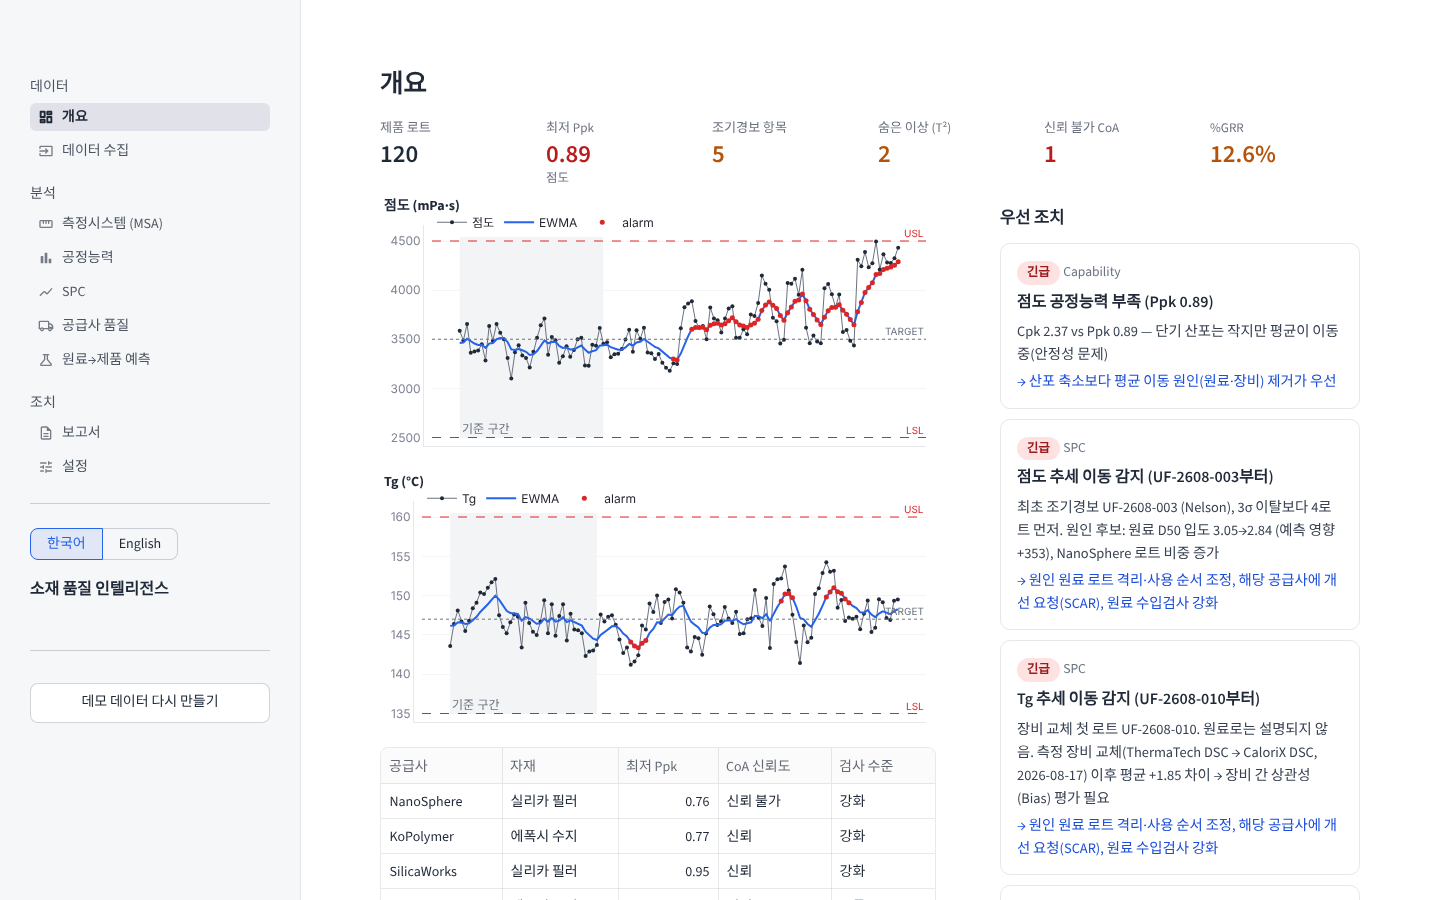
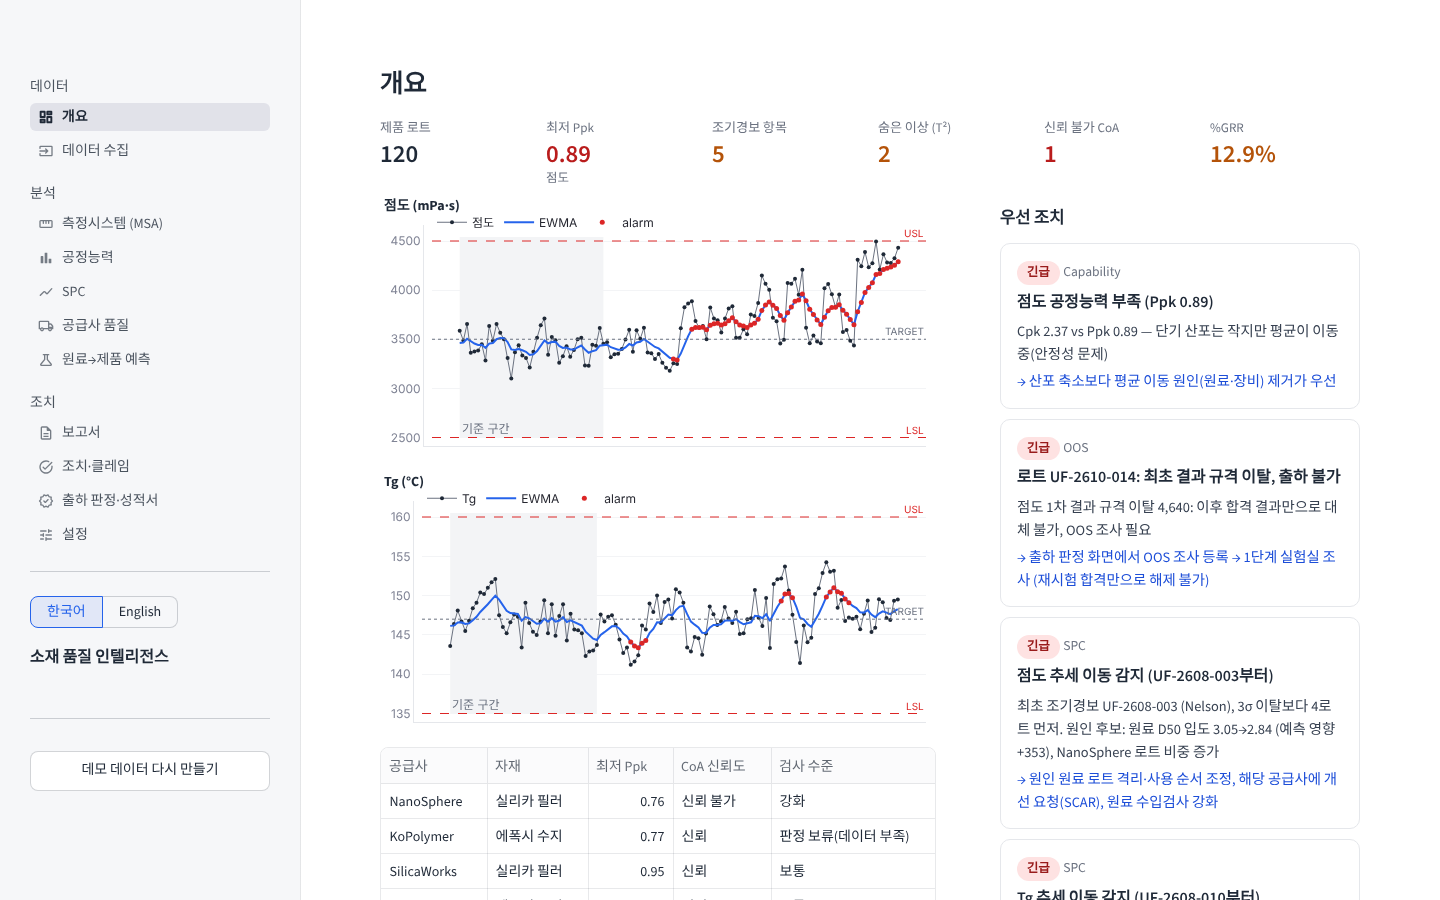
Show the blocked OOS lot on the overview and in the README tour (#2)
- overview priority list: lots whose first result failed (high, area OOS)
- README: one-line summary, comparison row, tour step 7 (UF-2610-014)
- refreshed overview screenshot (new navigation, OOS card)

Claude-Session: https://claude.ai/code/session_019sN5h2H5Xone2wwCJkGeBg

diff --git a/mqi/insight/rules.py b/mqi/insight/rules.py
@@ -224,6 +224,17 @@ def findings(b: engine.Bundle) -> list[Finding]:
                 f"다음 배치는 {best['resin_lot']} + {best['filler_lot']} + {best['hardener_lot']} 조합 권장",
                 f"Use {best['resin_lot']} + {best['filler_lot']} + {best['hardener_lot']} for the next batch"))
 
+    # ---- first results out of spec that a later result would otherwise hide
+    from .. import oos
+    for lot, fl in oos.flag_table(b.dbpath).items():
+        blocks = [x for x in fl if x[0] == "block"]
+        if blocks:
+            out.append(_f(
+                f"oos_{lot}", "OOS", "high",
+                f"로트 {lot}: 최초 결과 규격 이탈, 출하 불가", f"Lot {lot}: first result out of spec, release blocked",
+                blocks[0][1], blocks[0][2],
+                "출하 판정 화면에서 OOS 조사 등록 → 1단계 실험실 조사 (재시험 합격만으로 해제 불가)",
+                "Open the OOS investigation on the Release page → phase 1 lab check (a passing retest alone cannot release)"))
     out.sort(key=lambda f: (SEV[f.severity], f.area))
     # ---- open complaints and overdue actions
     from .. import qms

diff --git a/tests/test_oos.py b/tests/test_oos.py
@@ -95,3 +95,8 @@ def test_repeat_without_reason_is_held(plant):
                     "measured_at, source_file) VALUES (?,?,?,?,?,?,?,?,?)",
                     (lot, "product", "viscosity", 3500, "mPa·s", "inhouse", "Kim", "2099-01-01", "re-export.csv"))
     assert outgoing.release_check(engine.run(plant), lot)[0] == "hold"
+
+
+def test_overview_lists_the_blocked_lot(bundle):
+    from mqi.insight import rules
+    assert any(f.key.startswith("oos_") and f.severity == "high" for f in rules.findings(bundle))

diff --git a/README.md b/README.md
@@ -4,7 +4,7 @@
 ![python](https://img.shields.io/badge/python-3.12-3776AB)
 ![streamlit](https://img.shields.io/badge/app-Streamlit-FF4B4B)
 
-반도체 패키징 소재(언더필·에폭시 접착제) 공장의 품질 데이터를 **장비 제조사·펌웨어·단위·언어에 상관없이 자동으로 모으고**, MSA·공정능력·SPC·공급사 품질·원료→제품 예측을 한 번에 분석해 **8D·SCAR·출하 성적서까지 만들어 주는** Streamlit 앱입니다.
+반도체 패키징 소재(언더필·에폭시 접착제) 공장의 품질 데이터를 **장비 제조사·펌웨어·단위·언어에 상관없이 자동으로 모으고**, MSA·공정능력·SPC·공급사 품질·원료→제품 예측을 한 번에 분석해 **8D·SCAR·출하 성적서까지 만들어 주는** Streamlit 앱입니다. 재시험 합격으로 최초 부적합을 덮지 못하도록 **OOS 조사 이력**까지 관리합니다.
 
 **▶ [데모 앱 열기](https://materialqualityintelligence-dknsnjemfstfko4zluzplu.streamlit.app/)** (설치 없이 브라우저에서 바로 실행, 한국어/English)
 
@@ -26,18 +26,20 @@
 | 보고서는 사람이 작성 | 데이터로 채운 **표준 8D(D0–D8)·SCAR** 자동 작성: 5W2H·IS/IS NOT, 발생/유출 원인 분리, 6M 검증, 원료 한계 재계산 (한/영, A4·Excel) |
 | 결과만 보여 줌 | 재고 원료 조합별 **다음 배치 이탈 확률**을 예측해 사용할 조합을 추천 |
 | 조치는 엑셀로 따로 관리 | 8D·SCAR 조치를 **담당·기한·상태**로 추적하고, 상태가 8D D5·D6에 자동 반영 |
+| 재시험 합격이면 그대로 출하 | 최초 결과를 지우지 않고 보존, **OOS 조사**(1단계 실험실 → 2단계 제조)가 끝나기 전에는 출하·성적서 발행 차단 |
 | 출하 성적서는 수기 작성 | 출하 판정(가능/보류/불가)을 통과한 로트만 **출하 CoA PDF** 발행 |
 
 ## 3분 둘러보기
 
 | 순서 | 화면 | 볼 것 |
 |---|---|---|
-| 1 | 개요 | 우선 조치 목록: 점도 이동, Tg 장비 편차, CoA 신뢰 불가, 고객 클레임 |
+| 1 | 개요 | 우선 조치 목록: 점도 이동, Tg 장비 편차, CoA 신뢰 불가, 고객 클레임, 최초 결과 이탈 로트 |
 | 2 | SPC | EWMA가 3σ보다 4로트 먼저 경보, 차트 위 4M 변경점 |
 | 3 | 공급사 품질 → CoA 문서 | NanoSphere 성적서 원본과 자사 측정의 차이 |
 | 4 | 원료→제품 예측 | 원인 기여도 1순위 D50, 재고 원료 조합별 이탈 확률 |
 | 5 | 보고서 | 데이터로 채운 8D (출발점을 고객 클레임으로 바꿔 보기) → "조치 등록" |
 | 6 | 조치·클레임 / 출하 판정·성적서 | 등록된 조치의 상태 관리, 보류 로트와 출하 CoA 발행 |
+| 7 | 출하 판정·성적서 → **UF-2610-014** | 첫 점도 4,640(이탈) → 재측정 3,484(합격)인데도 출하 불가. `검사 이력 · OOS 조사 · 재시험`에서 조사 등록 → 1단계 종결까지 직접 진행 |
 
 ## 핵심 기능
 
